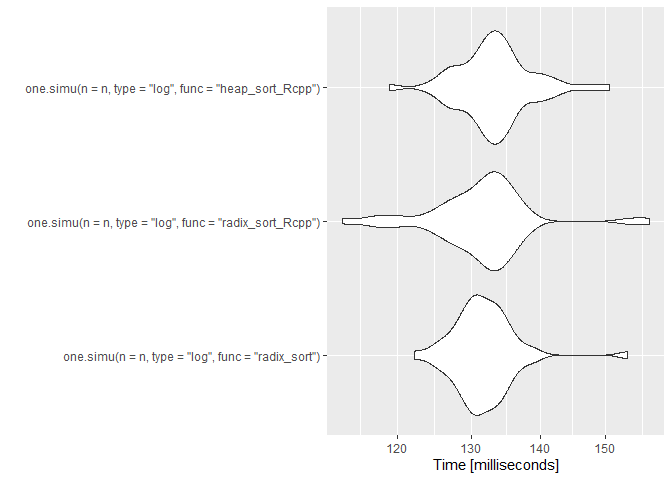
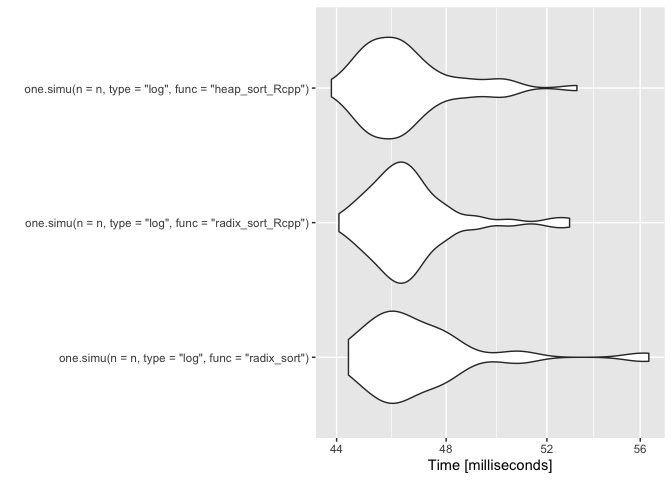
On refait les fig. Car souci de linéarité dans le plot (dépend trop de l'ordinateur à première vue)

diff --git a/simulations/README.md b/simulations/README.md
@@ -64,7 +64,7 @@ Vecteur à trier.
 v
 ```
 
-    ##  [1]  8  2  8  3  9 10 10  2  4  8
+    ##  [1]  9  7 10  4  6  4  7  4  1 10
 
 Radix sort avec la fonction codée en R.
 
@@ -72,7 +72,7 @@ Radix sort avec la fonction codée en R.
 radix_sort(v)
 ```
 
-    ##  [1]  2  2  3  4  8  8  8  9 10 10
+    ##  [1]  1  4  4  4  6  7  7  9 10 10
 
 Radix sort avec la fonction codée en Rcpp.
 
@@ -80,7 +80,7 @@ Radix sort avec la fonction codée en Rcpp.
 radix_sort_Rcpp(v)
 ```
 
-    ##  [1]  2  2  3  4  8  8  8  9 10 10
+    ##  [1]  1  4  4  4  6  7  7  9 10 10
 
 <a id="n"></a>
 
@@ -153,13 +153,13 @@ On fait un premier essai de simulation pour chacun des algorithmes avec
 one.simu(n = n, func = "radix_sort")
 ```
 
-    ## [1] 0.2
+    ## [1] 0.145
 
 ``` r
 one.simu(n = n, func = "radix_sort_Rcpp")
 ```
 
-    ## [1] 0.01
+    ## [1] 0.005
 
 ``` r
 # 35 secondes avec n = 10^5 : trop lent
@@ -170,7 +170,7 @@ one.simu(n = n, func = "radix_sort_Rcpp")
 one.simu(n = n, func = "heap_sort_Rcpp")
 ```
 
-    ## [1] 0.03
+    ## [1] 0.026
 
 ``` r
 # Trop lent sur de grosses données
@@ -218,20 +218,20 @@ On affiche les temps d’exécution pour effectuer 10 simulations.
 t1 # temps d'exécution du radix sort en R
 ```
 
-    ## [1] 21.63
+    ## [1] 19.442
 
 ``` r
 t2 # temps d'exécution du radix sort en Rcpp
 ```
 
-    ## [1] 0.67
+    ## [1] 0.511
 
 ``` r
 # t3 # temps d'exécution du heap sort en R
 t4 # temps d'exécution du heap sort en Rcpp
 ```
 
-    ## [1] 2.58
+    ## [1] 2.26
 
 Comparaison des temps d’exécution.
 
@@ -239,7 +239,7 @@ Comparaison des temps d’exécution.
 t1/t2 # radix sort gain R -> Rcpp
 ```
 
-    ## [1] 32.28358
+    ## [1] 38.04697
 
 ``` r
 # t3/t4 # heap sort gain R -> Rcpp
@@ -248,7 +248,7 @@ t1/t2 # radix sort gain R -> Rcpp
 t2/t4 # comparaison radix sort en Rcpp et heap sort en Rcpp
 ```
 
-    ## [1] 0.2596899
+    ## [1] 0.2261062
 
 ### Simulations dans le “cas logarithmique”
 
@@ -292,13 +292,13 @@ On affiche les temps d’exécution pour effectuer 10 simulations.
 t1_log # temps d'exécution du radix sort en R
 ```
 
-    ## [1] 0
+    ## [1] 0.001
 
 ``` r
 t2_log # temps d'exécution du radix sort en Rcpp
 ```
 
-    ## [1] 0
+    ## [1] 0.002
 
 ``` r
 #t3_log # temps d'exécution du heap sort en R
@@ -313,7 +313,7 @@ Comparaison des temps d’exécution.
 t1_log/t2_log # radix sort gain R -> Rcpp
 ```
 
-    ## [1] NaN
+    ## [1] 0.5
 
 ``` r
 #t3_log/t4_log # heap sort gain R -> Rcpp
@@ -322,7 +322,7 @@ t1_log/t2_log # radix sort gain R -> Rcpp
 t2_log/t4_log # comparaison radix sort en Rcpp et heap sort en Rcpp
 ```
 
-    ## [1] NaN
+    ## [1] Inf
 
 ### Simulations dans le “pire des cas”
 
@@ -360,20 +360,20 @@ On affiche les temps d’exécution pour effectuer 10 simulations.
 t1_worst # temps d'exécution du radix sort en R
 ```
 
-    ## [1] 22.95
+    ## [1] 18.839
 
 ``` r
 t2_worst # temps d'exécution du radix sort en Rcpp
 ```
 
-    ## [1] 0.65
+    ## [1] 0.527
 
 ``` r
 #t3_worst # temps d'exécution du heap sort en R
 t4_worst # temps d'exécution du heap sort en Rcpp
 ```
 
-    ## [1] 1.47
+    ## [1] 1.368
 
 Comparaison des temps d’exécution.
 
@@ -381,7 +381,7 @@ Comparaison des temps d’exécution.
 t1_worst/t2_worst # radix sort gain R -> Rcpp
 ```
 
-    ## [1] 35.30769
+    ## [1] 35.74763
 
 ``` r
 # t3_worst/t4_worst # heap sort gain R -> Rcpp
@@ -390,7 +390,7 @@ t1_worst/t2_worst # radix sort gain R -> Rcpp
 t2_worst/t4_worst # comparaison radix sort en Rcpp et heap sort en Rcpp
 ```
 
-    ## [1] 0.4421769
+    ## [1] 0.3852339
 
 <a id="micro"></a>
 
@@ -426,14 +426,14 @@ print(res)
 ```
 
     ## Unit: milliseconds
-    ##                                       expr     min      lq     mean  median
-    ##       one.simu(n = n, func = "radix_sort") 59.1814 69.6032 74.18380 72.0584
-    ##  one.simu(n = n, func = "radix_sort_Rcpp") 46.1011 51.1993 54.46950 52.9978
-    ##   one.simu(n = n, func = "heap_sort_Rcpp") 47.8520 51.9701 54.70478 54.4681
-    ##       uq      max neval cld
-    ##  76.7428 107.1201    50   b
-    ##  56.2709  80.6915    50  a 
-    ##  55.8226  74.5566    50  a
+    ##                                       expr      min       lq     mean   median
+    ##       one.simu(n = n, func = "radix_sort") 52.48329 57.39187 59.40552 59.55628
+    ##  one.simu(n = n, func = "radix_sort_Rcpp") 38.55722 40.92623 42.98569 42.51627
+    ##   one.simu(n = n, func = "heap_sort_Rcpp") 39.70947 41.65465 43.07509 42.82792
+    ##        uq      max neval
+    ##  60.98617 68.88502    50
+    ##  44.09908 57.53628    50
+    ##  44.45939 48.01773    50
 
 ### Comparaison entre le radix sort en Rcpp et le heap sort en Rcpp (“cas moyen”)
 
@@ -458,12 +458,12 @@ print(res)
 ```
 
     ## Unit: milliseconds
-    ##                                       expr      min       lq     mean   median
-    ##  one.simu(n = n, func = "radix_sort_Rcpp") 232.9665 244.2854 258.8633 255.8933
-    ##   one.simu(n = n, func = "heap_sort_Rcpp") 399.1887 419.5414 437.7275 427.4889
-    ##        uq      max neval cld
-    ##  265.7988 433.2756    50  a 
-    ##  446.8945 524.6888    50   b
+    ##                                       expr       min       lq     mean   median
+    ##  one.simu(n = n, func = "radix_sort_Rcpp")  94.66423 109.3194 114.0439 112.2889
+    ##   one.simu(n = n, func = "heap_sort_Rcpp") 238.46563 249.4284 271.8918 271.6391
+    ##        uq      max neval
+    ##  120.1313 163.5682    50
+    ##  281.0105 330.0410    50
 
 ### Comparaison entre le radix sort en R, le radix sort en Rcpp et le heap sort en Rcpp (“cas logarithmique”)
 
@@ -492,13 +492,13 @@ print(res)
 
     ## Unit: milliseconds
     ##                                                     expr      min       lq
-    ##       one.simu(n = n, type = "log", func = "radix_sort") 122.2408 129.5479
-    ##  one.simu(n = n, type = "log", func = "radix_sort_Rcpp") 113.1567 127.7129
-    ##   one.simu(n = n, type = "log", func = "heap_sort_Rcpp") 118.9494 130.4953
-    ##      mean   median       uq      max neval cld
-    ##  131.7092 131.0644 133.8740 153.7211    50   a
-    ##  131.3793 132.1361 133.7867 157.3275    50   a
-    ##  133.3598 132.8634 135.3967 150.6863    50   a
+    ##       one.simu(n = n, type = "log", func = "radix_sort") 44.41595 45.61041
+    ##  one.simu(n = n, type = "log", func = "radix_sort_Rcpp") 44.08083 45.63437
+    ##   one.simu(n = n, type = "log", func = "heap_sort_Rcpp") 43.81823 45.28821
+    ##      mean   median       uq      max neval
+    ##  47.03937 46.38767 47.76779 56.38350    50
+    ##  46.65819 46.39673 47.12245 52.94447    50
+    ##  46.50323 46.12918 47.18257 53.25261    50
 
 ### Comparaison entre le radix sort en Rcpp et le heap sort en Rcpp (“cas logarithmique”)
 
@@ -525,11 +525,11 @@ print(res)
 
     ## Unit: milliseconds
     ##                                                     expr      min       lq
-    ##  one.simu(n = n, type = "log", func = "radix_sort_Rcpp") 118.7448 131.1462
-    ##   one.simu(n = n, type = "log", func = "heap_sort_Rcpp") 118.9695 130.4936
-    ##      mean   median       uq      max neval cld
-    ##  131.8855 132.5364 134.1874 136.1378    50   a
-    ##  131.7780 132.5536 134.0897 137.5516    50   a
+    ##  one.simu(n = n, type = "log", func = "radix_sort_Rcpp") 44.11373 45.08553
+    ##   one.simu(n = n, type = "log", func = "heap_sort_Rcpp") 44.22827 44.97427
+    ##      mean   median       uq      max neval
+    ##  46.84968 45.75970 48.06489 54.62435    50
+    ##  46.56185 45.68711 48.02937 52.23691    50
 
 ### Comparaison entre le radix sort en R, le radix sort en Rcpp et le heap sort en Rcpp (“pire des cas”)
 
@@ -559,13 +559,13 @@ print(res)
 
     ## Unit: milliseconds
     ##                                                  expr      min       lq
-    ##       one.simu(n = n, type = "", func = "radix_sort") 139.2236 148.4812
-    ##  one.simu(n = n, type = "", func = "radix_sort_Rcpp") 113.6036 127.3328
-    ##   one.simu(n = n, type = "", func = "heap_sort_Rcpp") 117.0321 126.3610
-    ##      mean   median       uq      max neval cld
-    ##  152.3046 153.2015 155.1576 169.5414    50   b
-    ##  129.6050 130.0242 133.6055 135.7104    50  a 
-    ##  129.9708 131.0446 133.5983 148.1290    50  a
+    ##       one.simu(n = n, type = "", func = "radix_sort") 60.93721 67.04512
+    ##  one.simu(n = n, type = "", func = "radix_sort_Rcpp") 44.89340 49.56351
+    ##   one.simu(n = n, type = "", func = "heap_sort_Rcpp") 44.64093 48.26755
+    ##      mean   median       uq       max neval
+    ##  74.84446 71.22342 78.07024 103.31808    50
+    ##  56.31830 54.59360 61.63129  78.49405    50
+    ##  55.00354 52.83927 61.03903  77.59797    50
 
 ### Comparaison entre le radix sort en Rcpp et le heap sort en Rcpp (“pire des cas”)
 
@@ -591,12 +591,12 @@ print(res)
 ```
 
     ## Unit: milliseconds
-    ##                                                  expr      min       lq
-    ##  one.simu(n = n, type = "", func = "radix_sort_Rcpp") 184.7037 194.5126
-    ##   one.simu(n = n, type = "", func = "heap_sort_Rcpp") 263.4141 272.1390
-    ##      mean   median       uq      max neval cld
-    ##  201.5850 201.5958 207.3980 217.9321    50  a 
-    ##  279.5816 275.2708 283.0202 420.6784    50   b
+    ##                                                  expr       min       lq
+    ##  one.simu(n = n, type = "", func = "radix_sort_Rcpp")  97.50581 102.2702
+    ##   one.simu(n = n, type = "", func = "heap_sort_Rcpp") 173.90354 181.7978
+    ##      mean   median       uq      max neval
+    ##  108.8439 104.8287 110.1807 157.0846    50
+    ##  194.1268 188.1509 200.7221 253.0906    50
 
 <a id="complexity"></a>
 
@@ -642,7 +642,7 @@ lm(res ~ vector_n)
     ## 
     ## Coefficients:
     ## (Intercept)     vector_n  
-    ##   3.447e-03    1.777e-06
+    ##   2.881e-03    1.492e-06
 
 ### Radix sort en Rcpp
 
